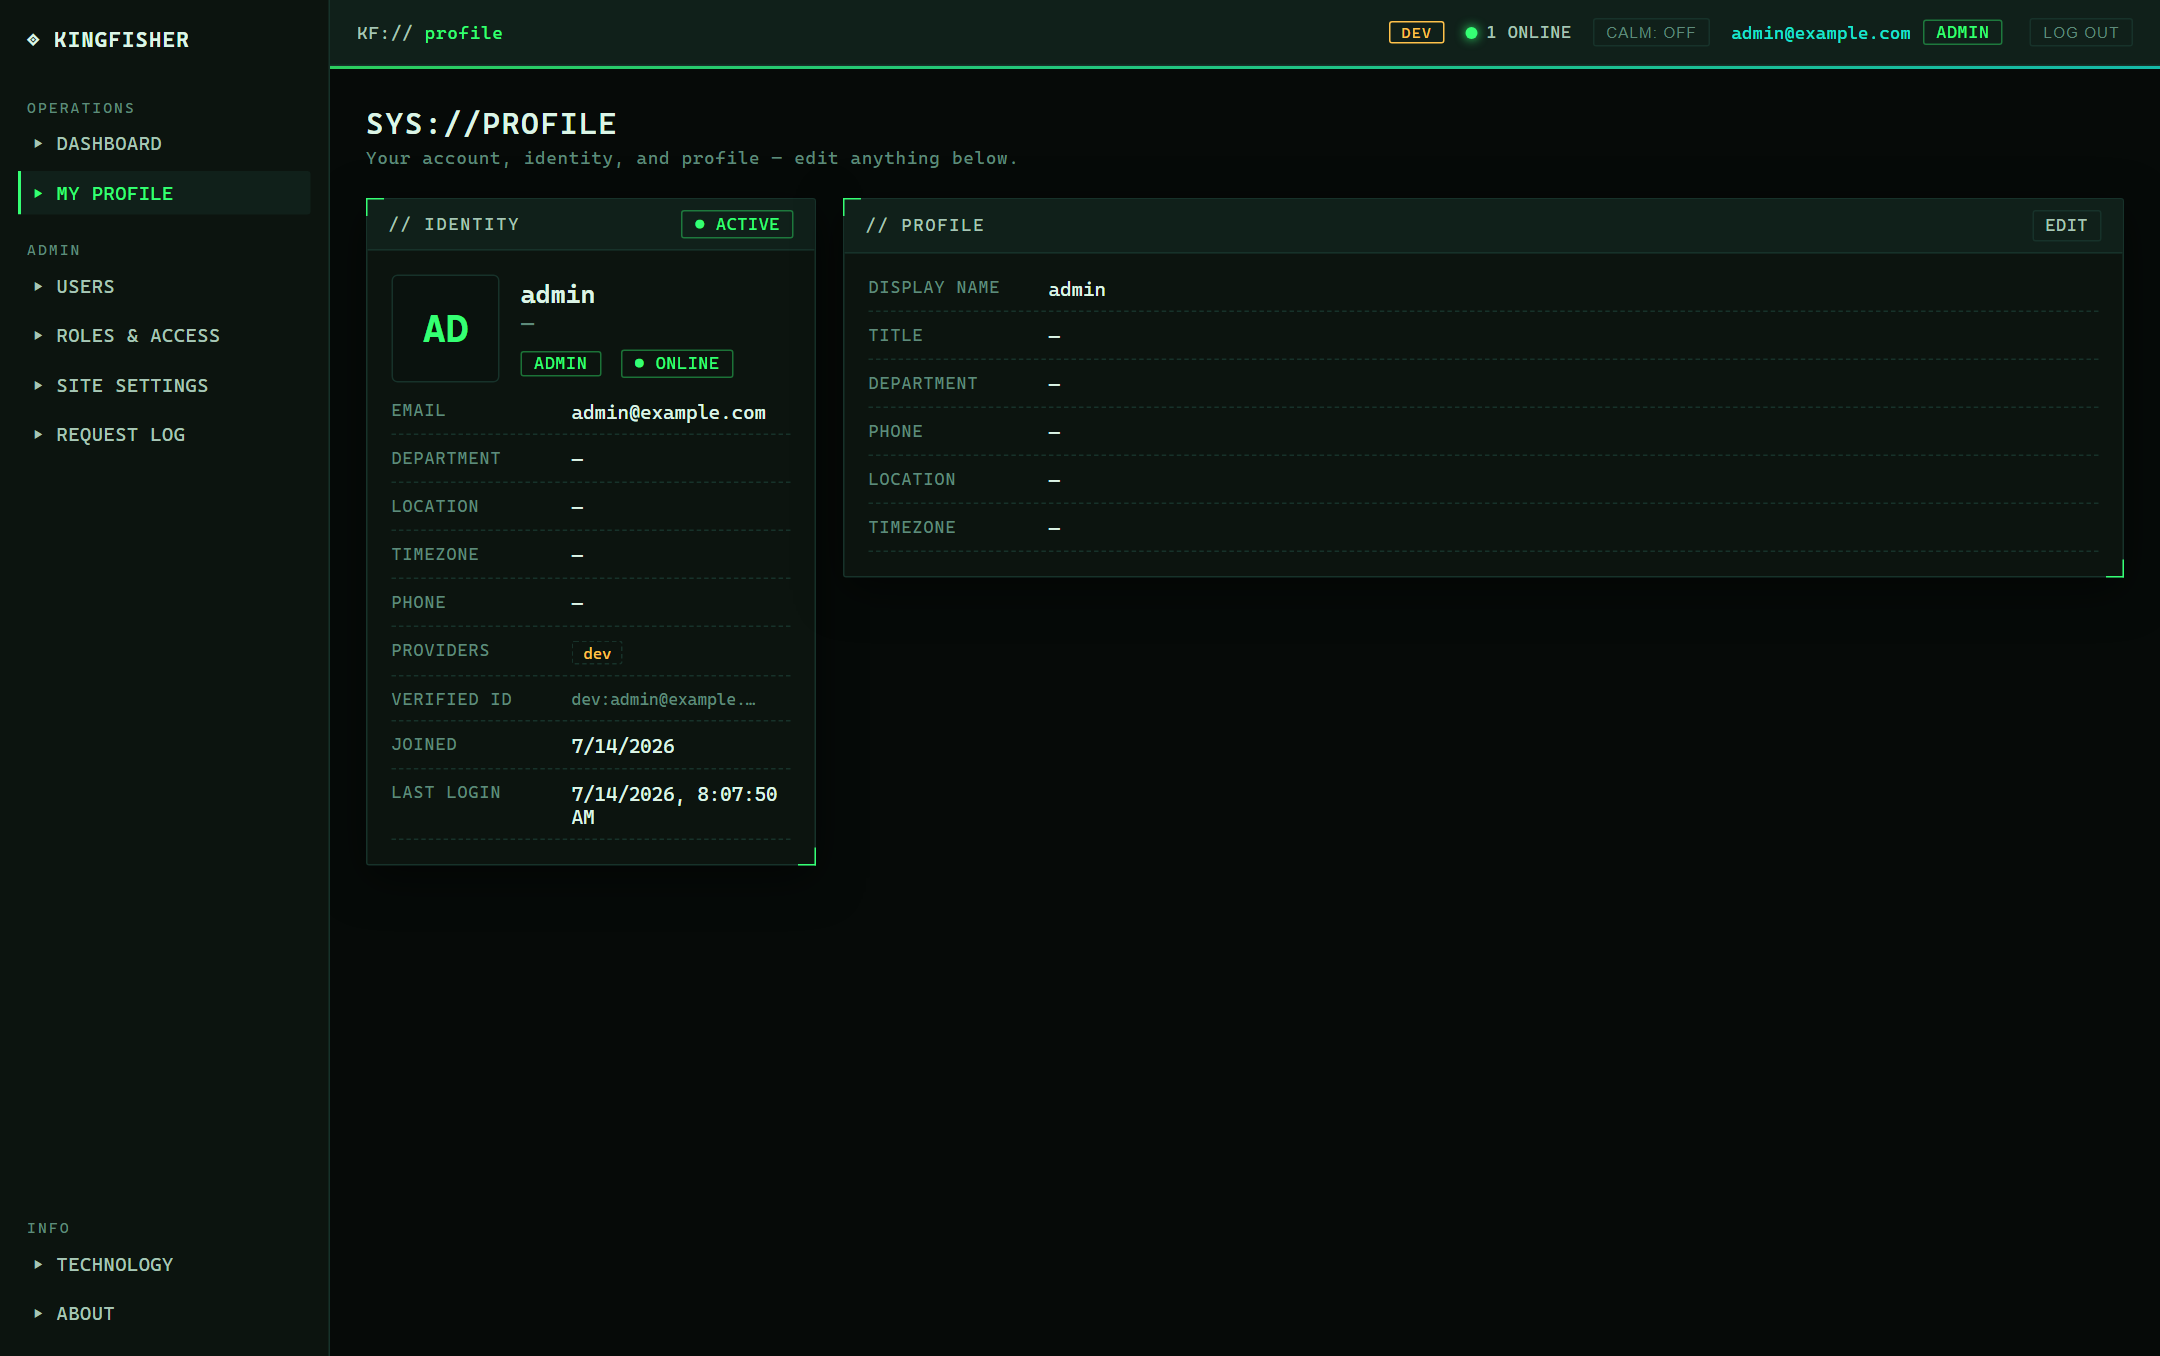
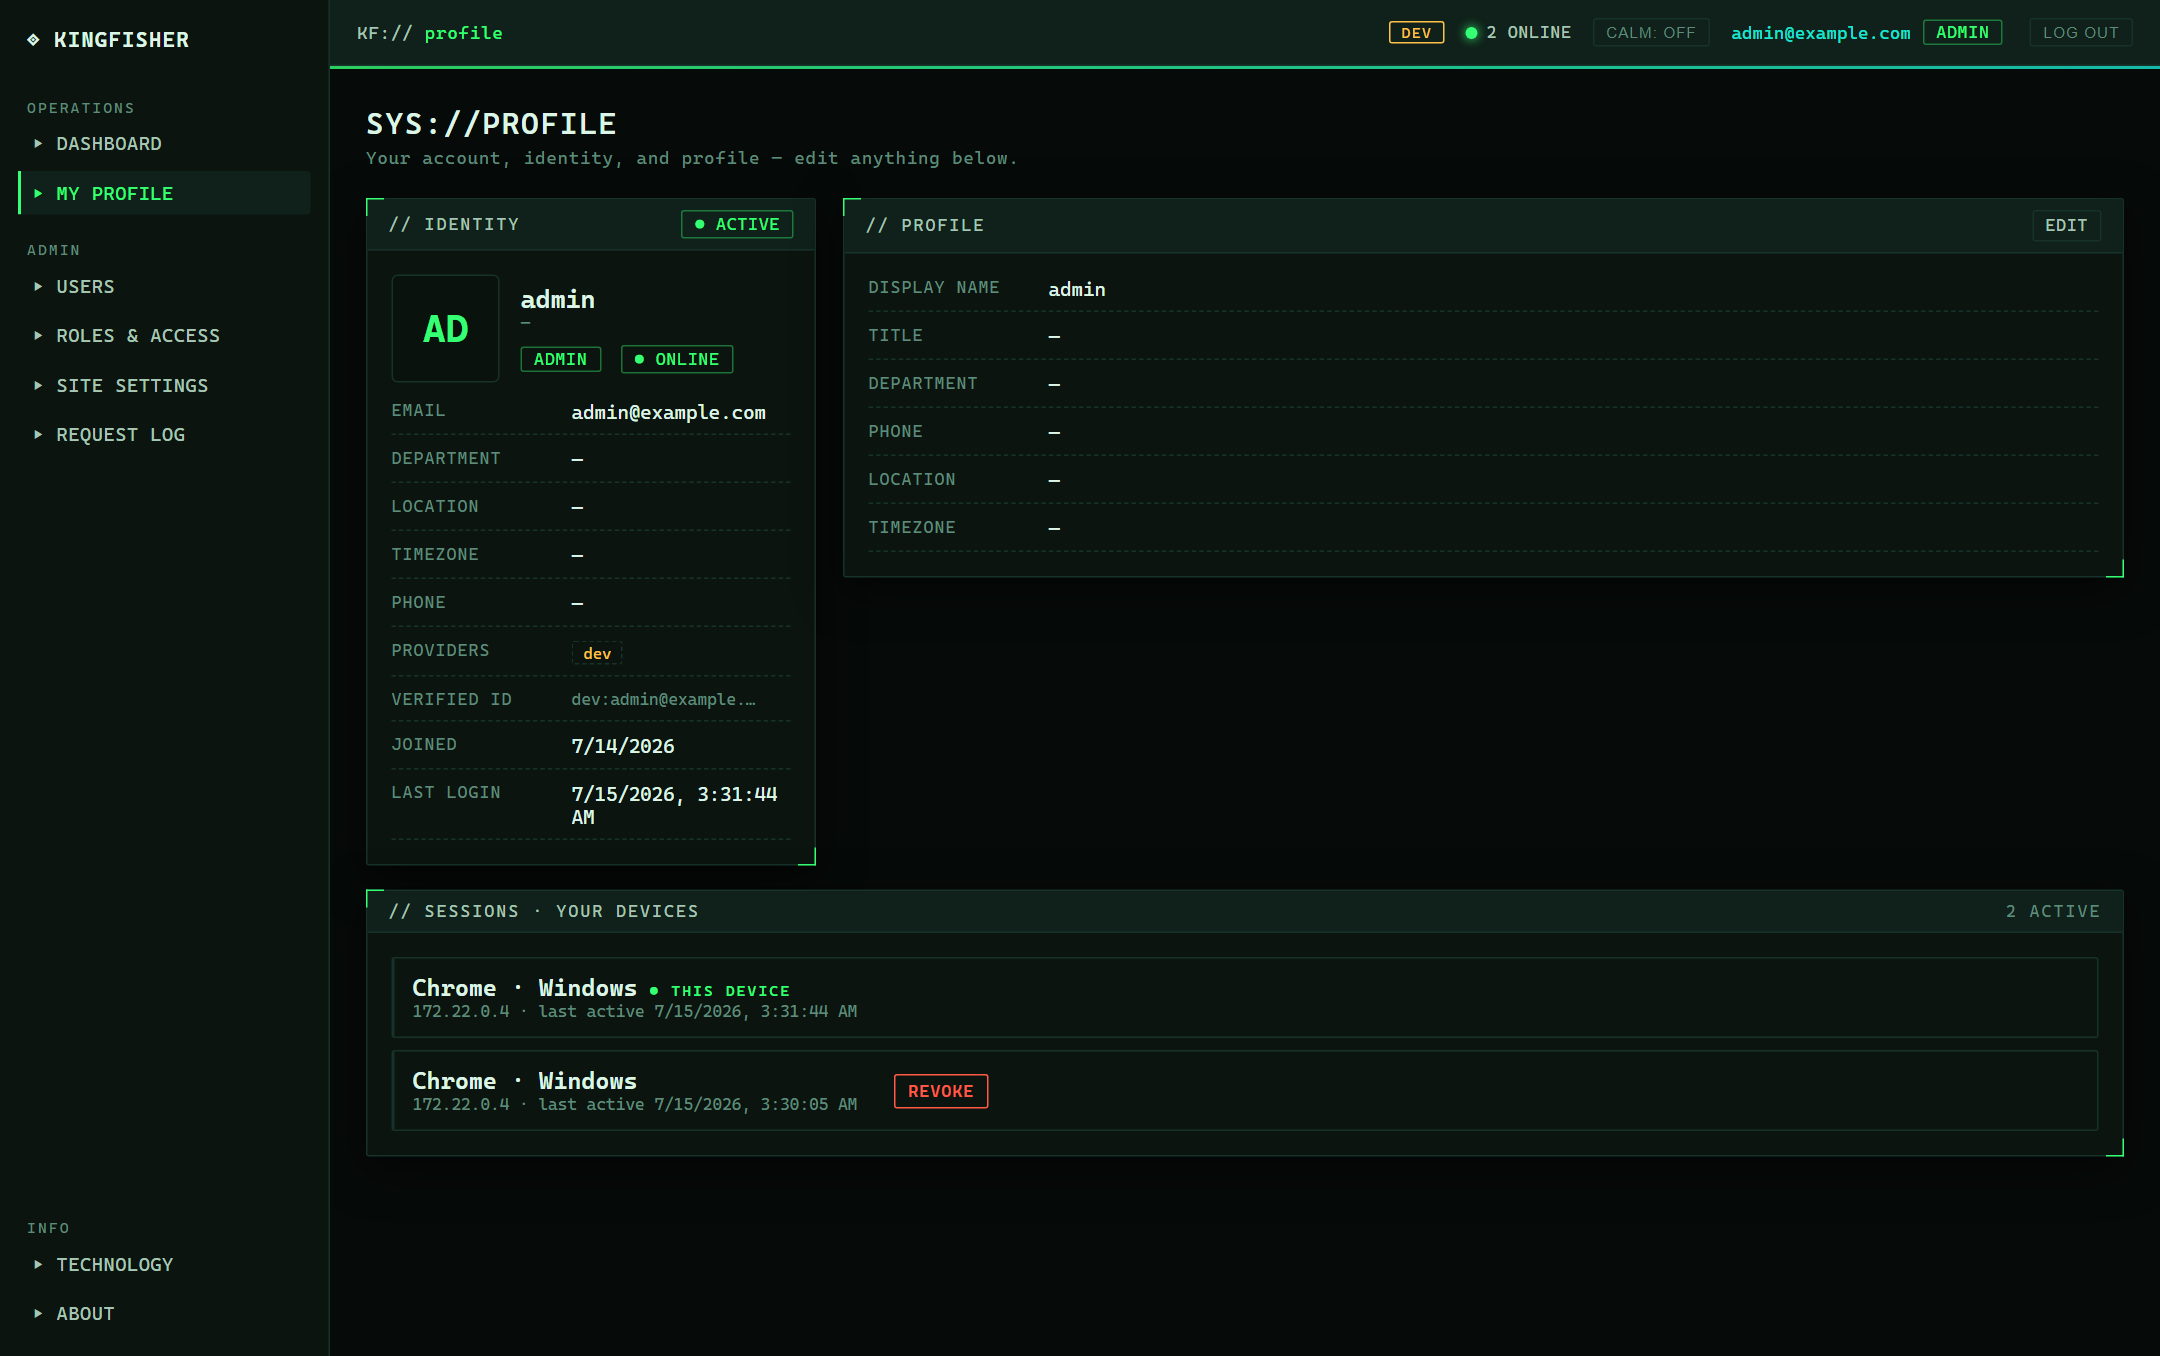
Marketing & story: agentic-build case study + demo GIF, README hero
- CASE_STUDY.md: the real differentiator — one operator running an adversarial multi-agent SDLC —
  told with the ACTUAL privilege-escalation bugs the review agents caught in this RBAC (role/user/
  settings amplification, the kick GPS leak that three agents independently flagged, CSV injection,
  the WebSocket re-auth gap), each now guarded by a named regression test.
- docs/img/demo.gif: a 7-scene looping tour (landing → dashboard → users → inline edit → roles →
  sessions → security), used as the animated README hero.
- README leads with the agentic-build hook + a link to the case study; profile screenshot refreshed
  to show the new active-sessions panel.

diff --git a/CASE_STUDY.md b/CASE_STUDY.md
@@ -1,0 +1,82 @@
+# How this was built — one operator, a fleet of adversarial agents
+
+Kingfisher is an access-control console: verified SSO keyed to a provider's immutable identity,
+database-backed RBAC enforced on every request, live presence, per-device sessions, and a one-click
+kill-switch. That's the *product*. This is the more interesting part — **how it was built.**
+
+It was designed, implemented, hardened, and reviewed by one person orchestrating a fleet of AI
+agents through a multi-agent workflow. Not "an AI wrote some code," but a real software development
+lifecycle where models handled the grind — decomposition, parallel drafting, adversarial review,
+test authoring, live verification — while the operator steered intent and made the calls. The
+receipts are in the git history and the CI badge.
+
+## The loop
+
+Each substantial change ran through four phases, each a fan-out of agents:
+
+1. **Understand / design.** For open-ended decisions (the visual direction, the session model),
+   a *judged panel*: several agents each propose an independent approach, parallel judges score
+   them on distinct axes, and the winner is synthesized — grafting the best ideas from the
+   runners-up rather than picking one and hoping.
+2. **Build.** Parallel section drafters produce coherent slices, integrated by hand. The operator
+   owns the seams — where the pieces meet is where bugs hide.
+3. **Adversarially review.** This is the part almost nobody shows. Independent agents are pointed
+   at the diff with one instruction: *break it.* Each takes a different lens — RBAC, token
+   verification, privacy, dead-code — and every finding is then handed to a **second** agent whose
+   job is to *refute* it. Only findings that survive refutation get fixed. This kills the
+   plausible-but-wrong "finding" that makes most AI review noise.
+4. **Verify before commit.** Not "the tests pass" — the actual flow is driven end-to-end in a real
+   browser (Playwright over the running stack) and the behavior observed, then committed only when
+   green. Every push watches CI to completion.
+
+## The proof: real bugs the adversarial pass caught
+
+An adversarial review is decoration unless it catches things that would have shipped. These are
+real vulnerabilities the review agents found **in this codebase**, each fixed with a regression test
+that still guards it:
+
+- **Privilege-amplification via role assignment (HIGH).** A `roles.manage` delegate could mint a
+  role carrying permissions it didn't itself hold, then assign it — escalating past its own
+  authority. Fix: a "grant only what you hold" guard on role creation *and* assignment.
+- **Puppet-admin via user management (HIGH).** A `users.manage` delegate could promote another
+  account to full admin, and there was no last-admin protection. Fix: the amplification guard on
+  role changes plus a last-active-admin lockout.
+- **Settings escalation (HIGH).** A `settings.manage` delegate could set the *default sign-up role*
+  to `admin` — every future signup would bootstrap as an administrator. Fix: the same amplification
+  guard applied to the default-role setting.
+- **Location leak through the kick endpoint (HIGH).** After opt-in GPS was gated to "self or
+  `users.manage`", one path was missed: `POST /kick` is gated by `presence.kick` (a *distinct*
+  permission) and still returned the target's coordinates. A `presence.kick`-only role — exactly the
+  demo "Manager" — could kick a user and read their location. **Three independent review agents
+  flagged this same hole**; the fix gates the kick response identically.
+- **CSV formula injection.** Exported cells beginning with `= + - @` would execute as formulas when
+  opened in a spreadsheet. Fix: neutralize them with a leading quote, tested against a
+  `=HYPERLINK(...)` payload.
+- **WebSocket re-auth gap.** The presence socket authenticated once at connect and never rechecked,
+  so a kicked user's live connection lingered. Fix: re-authenticate on every wake and drop revoked
+  sockets (close 1008).
+- **LIKE-wildcard leakage & X-Forwarded-For spoofing.** Search terms didn't escape `%`/`_` (so
+  `a_b` matched `axb`), and the audit log trusted a caller-supplied `X-Forwarded-For` for the source
+  IP. Both fixed and tested.
+
+None of these are hypothetical. Each was a working exploit against a real permission model, caught
+before it shipped, and each has a test named after the failure it prevents.
+
+## What verifies it
+
+- **Backend:** the full HTTP stack under `pytest` against a real MySQL database, schema built by the
+  actual Alembic migrations — 86 tests spanning auth, token replay, RBAC guards, per-device
+  sessions, presence/kick, rate limiting, CSV-safety, location privacy, and the audit log.
+- **Frontend:** Vitest + Testing Library over the code that gates access in the browser.
+- **End-to-end:** a Playwright job boots the real stack (Vite + FastAPI + MySQL via Docker Compose)
+  and proves, in a browser, that an admin can sign in and drive the console — and that a plain user
+  is redirected away from the admin directory. RBAC, enforced end to end, on every push.
+
+## Why it matters
+
+The interesting claim isn't "AI can write a CRUD app." It's that a single operator, running an
+adversarial multi-agent process with discipline, can ship software that is **verified, reviewed, and
+honest** — and that the process catches real security bugs a solo developer under deadline would
+miss. The features here exist to prove the process. The process is the point.
+
+*The best résumé is a running product.*

diff --git a/README.md b/README.md
@@ -11,7 +11,11 @@ identity, a real database-backed **roles + permissions** system, a **live presen
 > **Scope:** built to be *run*, not just browsed. AWS deployment is intentionally **not** wired up —
 > everything here runs locally on Docker. `deploy/` holds production reference files only.
 
-![Landing](docs/img/landing.png)
+> 🤖 **Built solo with a fleet of adversarial AI agents** — a real multi-agent SDLC that caught
+> genuine privilege-escalation bugs in this very RBAC. The story, with the actual bugs, is in
+> **[CASE_STUDY.md](CASE_STUDY.md)**.
+
+![Kingfisher console — a tour of the access-control console](docs/img/demo.gif)
 
 ---
 
